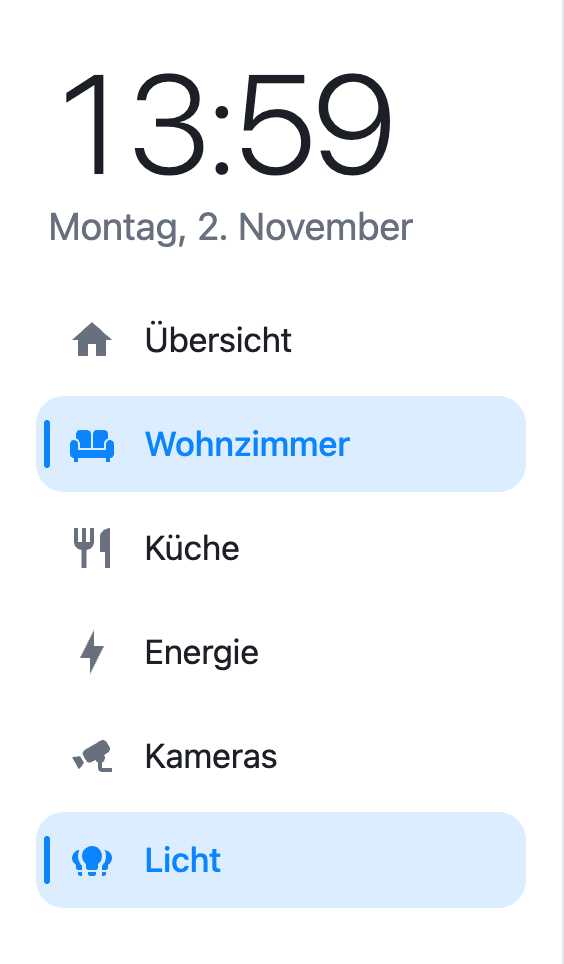
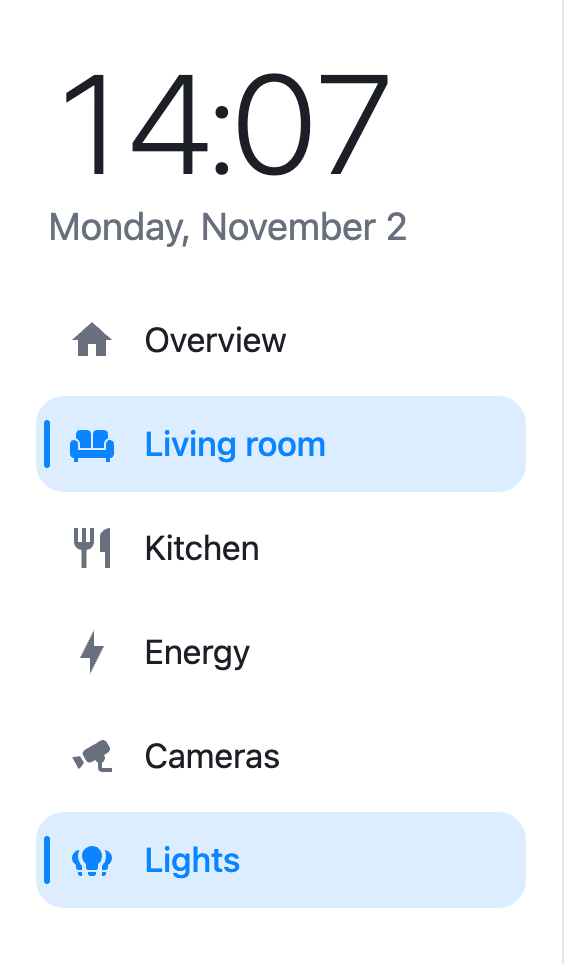
README in English with English demo screenshots

diff --git a/README.md b/README.md
@@ -1,107 +1,107 @@
 # Sidebar Card 2
 
-Eine globale Sidebar für Home-Assistant-Dashboards – modern, theme-fähig und **direkt im Dashboard per visuellem Editor konfigurierbar**.
+A global sidebar for Home Assistant dashboards – modern, theme-aware and **configurable right in the dashboard with a visual editor**.
 
-Neufassung von [DBuit/sidebar-card](https://github.com/DBuit/sidebar-card) (Lit 3, ohne moment.js/card-tools, ~100 KB statt ~320 KB). Bestehende `sidebar:`-Konfigurationen funktionieren unverändert weiter. Ideen übernommen aus den Forks von [knstyl](https://github.com/knstyl/sidebar-card) (Benachrichtigungen, Personen, Statusleiste, Verläufe) und [Phantom3912/Bobsilvio](https://github.com/Phantom3912/sidebar-card) (Menü-Stile, Farben pro Eintrag).
+A rewrite of [DBuit/sidebar-card](https://github.com/DBuit/sidebar-card) (Lit 3, no moment.js/card-tools, ~100 KB instead of ~320 KB). Existing `sidebar:` configurations keep working unchanged. Ideas borrowed from the forks by [knstyl](https://github.com/knstyl/sidebar-card) (notifications, people, status bar, trends) and [Phantom3912/Bobsilvio](https://github.com/Phantom3912/sidebar-card) (menu styles, per-item colors).
 
-Getestet gegen Home Assistant 2026.10 (Frontend 20260930).
+Tested against Home Assistant 2026.10 (frontend 20260930).
 
-![Übersicht im hellen Theme](screenshots/overview-light.png)
+![Overview, light theme](screenshots/overview-light.png)
 
-<sub>Alle Screenshots zeigen Demo-Daten.</sub>
+<sub>All screenshots show demo data.</sub>
 
 ## Screenshots
 
-### Hell und dunkel
+### Light and dark
 
-Die Sidebar übernimmt Farben und Schrift aus dem aktiven HA-Theme.
+The sidebar takes its colors and font from the active Home Assistant theme.
 
-![Übersicht im dunklen Theme mit breitem Menü-Stil](screenshots/overview-dark.png)
+![Overview, dark theme with the wide menu style](screenshots/overview-dark.png)
 
-### Menü-Stile (`menuStyle`)
+### Menu styles (`menuStyle`)
 
-| `list` | `wide` | `buttons` (mit Analoguhr) | `grid` |
+| `list` | `wide` | `buttons` (with analog clock) | `grid` |
 | :---: | :---: | :---: | :---: |
-| <img src="screenshots/menu-list.png" width="200" alt="Menü-Stil Liste"> | <img src="screenshots/menu-wide.png" width="200" alt="Menü-Stil breite Pills"> | <img src="screenshots/menu-buttons.png" width="200" alt="Menü-Stil Kacheln mit Analoguhr"> | <img src="screenshots/menu-grid.png" width="200" alt="Menü-Stil Raster"> |
+| <img src="screenshots/menu-list.png" width="200" alt="List menu style"> | <img src="screenshots/menu-wide.png" width="200" alt="Wide pill menu style"> | <img src="screenshots/menu-buttons.png" width="200" alt="Button tiles with analog clock"> | <img src="screenshots/menu-grid.png" width="200" alt="Grid menu style"> |
 
-### Benachrichtigungen und Verläufe
+### Notifications and trends
 
-| Benachrichtigungen (`notifications`) | Verläufe (`trends`) |
+| Notifications (`notifications`) | Trends (`trends`) |
 | :---: | :---: |
-| <img src="screenshots/notifications.png" width="260" alt="Benachrichtigungs-Panel"> | <img src="screenshots/trends.png" width="300" alt="Verlaufsdiagramm mit zwei Sensoren"> |
+| <img src="screenshots/notifications.png" width="260" alt="Notification panel"> | <img src="screenshots/trends.png" width="300" alt="Trend chart with two sensors"> |
 
-Hinweiszeilen wie „Haustür ist offen“ (`glanceBar` mit `position: attention`) und der Benachrichtigungs-Stapel bleiben unten in der Sidebar sichtbar, auch wenn der Inhalt darüber scrollt.
+Alert rows such as "Front door is open" (`glanceBar` with `position: attention`) and the notification stack stay pinned to the bottom of the sidebar while the content above scrolls.
 
-### Visueller Editor
+### Visual editor
 
-![Editor, Reiter Menü](screenshots/editor-menu.png)
+![Editor, menu tab](screenshots/editor-menu.png)
 
-![Editor, Reiter Layout](screenshots/editor-layout.png)
+![Editor, layout tab](screenshots/editor-layout.png)
 
 ## Installation
 
 ### HACS
 
-1. **HACS → ⋮ → Benutzerdefinierte Repositories**: `https://github.com/marvin-rse/sidebar-card`, Typ **Dashboard**.
-2. „Sidebar Card 2“ suchen und herunterladen.
-3. Prüfen, dass unter **Einstellungen → Dashboards → ⋮ → Ressourcen** genau ein Eintrag für `sidebar-card.js` steht (HACS legt ihn meist selbst an).
-4. Browser bzw. Tablet-App neu laden.
+1. **HACS → ⋮ → Custom repositories**: add `https://github.com/marvin-rse/sidebar-card` with type **Dashboard**.
+2. Search for "Sidebar Card 2" and download it.
+3. Check that **Settings → Dashboards → ⋮ → Resources** contains exactly one entry for `sidebar-card.js` (HACS usually adds it for you).
+4. Reload the browser or the companion app.
 
-Wer bisher DBuit/sidebar-card über HACS genutzt hat, entfernt diese vorher – beide Repositories heißen `sidebar-card`.
+If you used DBuit/sidebar-card through HACS before, remove it first – both repositories are named `sidebar-card`.
 
-### Manuell
+### Manual
 
-`sidebar-card.js` aus dem [neuesten Release](https://github.com/marvin-rse/sidebar-card/releases/latest) nach `/config/www/sidebar-card/` kopieren und als Ressource `/local/sidebar-card/sidebar-card.js` (Typ: JavaScript-Modul) eintragen.
+Copy `sidebar-card.js` from the [latest release](https://github.com/marvin-rse/sidebar-card/releases/latest) to `/config/www/sidebar-card/` and add `/local/sidebar-card/sidebar-card.js` as a resource (type: JavaScript module).
 
-Sind alte und neue Version gleichzeitig geladen, baut nur eine davon eine Sidebar; in der Browser-Konsole erscheint dann ein Hinweis.
+If the old and the new version are loaded at the same time, only one of them builds a sidebar and the browser console shows a hint.
 
-## Bearbeiten
+## Editing
 
-Dashboard öffnen → **Bearbeiten** (oder `?edit=1` an die URL hängen). In der Sidebar erscheint oben rechts ein **Zahnrad**. Es öffnet den Editor mit Live-Vorschau:
+Open the dashboard and choose **Edit** (or append `?edit=1` to the URL). A **gear button** appears in the top right corner of the sidebar. It opens the editor with a live preview:
 
-| Reiter | Inhalt |
+| Tab | Contents |
 | --- | --- |
-| Kopfbereich | Titel, Uhr (digital/analog), Datum, Wetter, Personen, Hinweis-Template |
-| Menü | Menü-Stil, Einträge mit Symbol, Aktion beim Tippen/Halten, Aktiv-Entität, Bedingung, Farben; „Ansichten übernehmen“ |
-| Status | HA-Benachrichtigungen, Statusleiste bzw. Hinweiszeilen |
-| Verläufe | Wischbare Diagramme, Zeiträume, Auto-Weiterblättern |
-| Karten | Beliebige Lovelace-Karten unten in der Sidebar (YAML) |
-| Layout | Breiten je Gerät, Breakpoints, Akzentfarbe, HA-Kopfzeile/-Seitenleiste ausblenden, eigenes CSS |
-| YAML | Die komplette Konfiguration |
+| Header | Title, clock (digital/analog), date, weather, people, message template |
+| Menu | Menu style; items with icon, tap/hold action, active entity, condition, colors; "Add views" |
+| Status | Home Assistant notifications, status bar or alert rows |
+| Trends | Swipeable charts, ranges, auto advance |
+| Cards | Any Lovelace cards at the bottom of the sidebar (YAML) |
+| Layout | Width per device, breakpoints, accent color, hide HA header/sidebar, custom CSS |
+| YAML | The complete configuration |
 
-Gespeichert wird in die Dashboard-Konfiguration (Schlüssel `sidebar:`), genau wie bisher.
+The editor speaks English and German, following the Home Assistant language. It saves into the dashboard configuration (key `sidebar:`), just like before.
 
-## Konfiguration (YAML)
+## Configuration (YAML)
 
 ```yaml
 sidebar:
   digitalClock: true
   date: true
-  dateFormat: "dddd, D. MMMM"     # optional, Moment-Tokens; leer = automatisch
+  dateFormat: "dddd, MMMM D"      # optional, moment-style tokens; empty = automatic
   weatherEntity: weather.home
   presence: [person.alex, person.sam]
   template: |
-    <li>{% if now().hour < 12 %}Guten Morgen{% else %}Hallo{% endif %}</li>
+    <li>{% if now().hour < 12 %}Good morning{% else %}Hello{% endif %}</li>
   menuStyle: wide                  # list | wide | buttons | grid
   showLabel: true
   sidebarMenu:
     - name: Home
       icon: mdi:home
-      tap_action: { action: navigate, navigation_path: /wandtablet/home }
-    - name: Licht
+      tap_action: { action: navigate, navigation_path: /wall-tablet/home }
+    - name: Lights
       icon: mdi:sofa
-      state: light.wohnzimmer      # hervorgehoben, solange an
-      tap_action: { action: toggle, entity: light.wohnzimmer }
-      hold_action: { action: more-info, entity: light.wohnzimmer }
-      conditional: "{{ is_state('input_boolean.gaeste', 'off') }}"
+      state: light.living_room     # highlighted while on
+      tap_action: { action: toggle, entity: light.living_room }
+      hold_action: { action: more-info, entity: light.living_room }
+      conditional: "{{ is_state('input_boolean.guests', 'off') }}"
       background_color: "rgba(255, 200, 140, .9)"
   notifications: true
   glanceBar:
-    position: attention            # oder Liste ohne position = Symbole unten
+    position: attention            # or a plain list = icons at the bottom
     items:
-      - entity: binary_sensor.haustuer
+      - entity: binary_sensor.front_door
         icon: mdi:door-open
-        label: "{name} offen"
+        label: "{name} is open"
       - entity: sensor.co2
         label: "CO₂ {state} {unit}"
         tone: { warn_above: 1000, alert_above: 1500 }
@@ -109,37 +109,37 @@ sidebar:
     ranges: [24h, 7d]
     autoAdvance: 10
     items:
-      - name: Temperatur
-        entities: [sensor.aussen, sensor.wohnzimmer]
+      - name: Temperature
+        entities: [sensor.outdoor_temperature, sensor.living_room_temperature]
       - entity: sensor.aqi
         bands: aqi
   cards:
     - type: custom:mushroom-media-player-card
-      entity: media_player.wohnzimmer
+      entity: media_player.living_room
   cardStyle: ":host { width: 100%; }"
   width: { mobile: 0, tablet: 25, desktop: 20 }
   breakpoints: { mobile: 768, tablet: 1024 }
   accentColor: "#ff9800"
   hideTopMenu: false
   hideHassSidebar: false
-  hideOnPath: [/wandtablet/kameras]
+  hideOnPath: [/wall-tablet/cameras]
   style: |
     :host { --sidebar-background: #10131a; }
 ```
 
-Aktionen sind die Standard-Aktionen von Home Assistant (`navigate`, `more-info`, `toggle`, `perform-action`, `url`, `assist`, `none`, inklusive `confirmation`).
+Actions are Home Assistant's standard actions (`navigate`, `more-info`, `toggle`, `perform-action`, `url`, `assist`, `none`), including `confirmation`.
 
-### Kompatibilität mit v1
+### Compatibility with v1
 
-- Menüeinträge mit `action:`/`navigation_path:`/`service:`/`service_data:` funktionieren weiter. Der Editor stellt sie beim Öffnen auf `tap_action` um.
-- `bottomCard: { type, cardOptions, cardStyle }` wird weiter gelesen. Der Editor macht daraus `cards:` und `cardStyle:`.
-- `conditional:` wird jetzt von Home Assistant selbst ausgewertet (echtes Jinja statt der bisherigen Muster-Erkennung).
-- `service-js` funktioniert weiter, ist aber nur im YAML-Reiter bearbeitbar. `this` ist jetzt das Menü-Element (mit `this.hass`).
-- CSS-Variablen `--sidebar-background`, `--sidebar-text-color`, `--sidebar-icon-color`, `--sidebar-selected-text-color`, `--sidebar-selected-icon-color` und die Uhr-Variablen (`--face-color` …) gelten weiter.
-- `?sidebarOff` in der URL deaktiviert `hideTopMenu`/`hideHassSidebar`. Im Bearbeitungsmodus bleibt die HA-Kopfzeile immer sichtbar.
-- Neues Standard-Datumsformat: „Montag, 2. November“ (vorher `DD MMMM`).
+- Menu items with `action:`/`navigation_path:`/`service:`/`service_data:` keep working. The editor converts them to `tap_action` when it opens.
+- `bottomCard: { type, cardOptions, cardStyle }` is still read. The editor turns it into `cards:` and `cardStyle:`.
+- `conditional:` is now rendered by Home Assistant itself (real Jinja instead of the previous pattern matching).
+- `service-js` still works but can only be edited in the YAML tab. `this` is now the menu element (with `this.hass`).
+- The CSS variables `--sidebar-background`, `--sidebar-text-color`, `--sidebar-icon-color`, `--sidebar-selected-text-color`, `--sidebar-selected-icon-color` and the clock variables (`--face-color` …) still apply.
+- `?sidebarOff` in the URL disables `hideTopMenu`/`hideHassSidebar`. In edit mode the HA header always stays visible.
+- New default date format: "Monday, November 2" (previously `DD MMMM`).
 
-## Entwicklung
+## Development
 
 ```sh
 npm install
@@ -148,6 +148,6 @@ npm run watch
 npm run typecheck
 ```
 
-## Lizenz
+## License
 
-MIT. Ursprüngliche sidebar-card von DBuit und Mitwirkenden.
+MIT. Original sidebar-card by DBuit and contributors.
